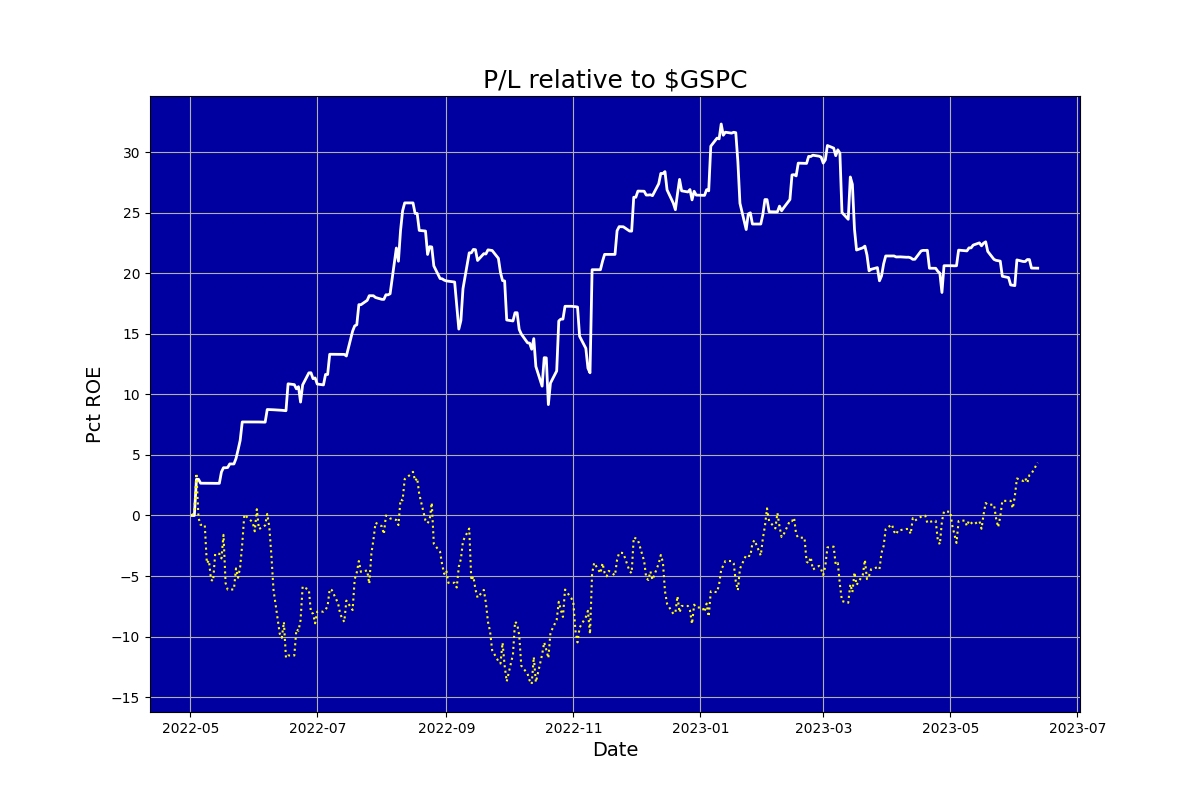
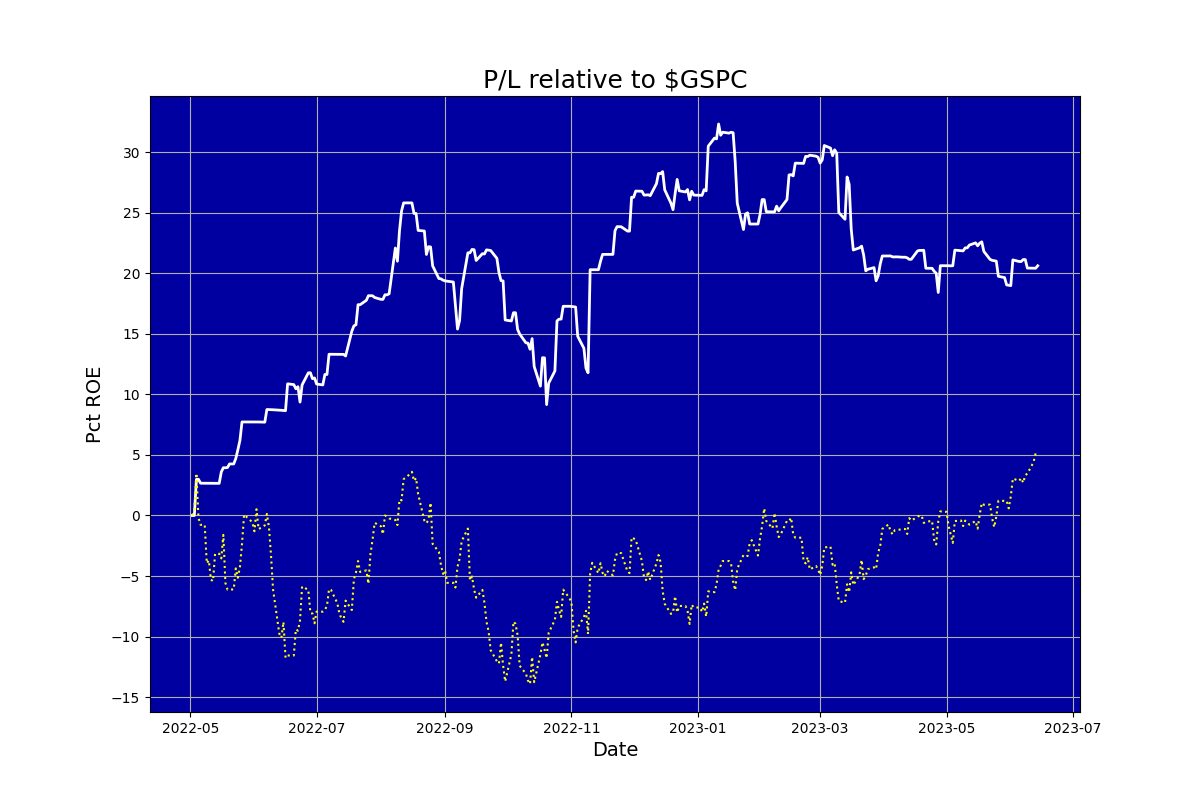
Updated

diff --git a/ig_report.html b/ig_report.html
@@ -1,1 +1,1 @@
-<html><body><center><h1>Auriel (never knowingly overbought)</h1></center><table cols=2><tr><td><img src=ig_pl.png></td><td><table cols=2><tr><td colspan=2><b><br>Snapshot</b></td></tr><tr><td>Last updated:&nbsp;&nbsp;&nbsp;</td><td>2023-06-12 15:54</td></tr><tr><td>Margin:&nbsp;&nbsp;&nbsp;</td><td>0.04</td></tr><tr><td>Cushion:&nbsp;&nbsp;&nbsp;</td><td>-36040.14</td></tr><tr><td>Last closed trade:&nbsp;&nbsp;&nbsp;</td><td>2023-06-12</td></tr><tr><td colspan=2><b><br>Positions</b></td></tr><tr><td>Mean days to new high:&nbsp;&nbsp;&nbsp;</td><td>13.26</td></tr><tr><td colspan=2><b><br>Trades</b></td></tr><tr><td>Traded days:&nbsp;&nbsp;&nbsp;</td><td>293</td></tr><tr><td>Profitable days pct:&nbsp;&nbsp;&nbsp;</td><td>37.20</td></tr><tr><td>Days beat S&P pct:&nbsp;&nbsp;&nbsp;</td><td>53.93</td></tr><tr><td>Profitable months pct:&nbsp;&nbsp;&nbsp;</td><td>64.29</td></tr><tr><td colspan=2><b><br>Performance</b></td></tr><tr><td>Pct median monthly ROE:&nbsp;&nbsp;&nbsp;</td><td>1.27</td></tr><tr><td>Pct annualised ROE:&nbsp;&nbsp;&nbsp;</td><td>17.43</td></tr><tr><td colspan=2><b><br>Risk</b></td></tr><tr><td>Volatility pct:&nbsp;&nbsp;&nbsp;</td><td>18.58</td></tr><tr><td>Benchmark volatility pct:&nbsp;&nbsp;&nbsp;</td><td>21.58</td></tr><tr><td>Sharpe ratio (RFR 5.0%):&nbsp;&nbsp;&nbsp;</td><td>0.76</td></tr><tr><td>Sortino ratio (RFR 5.0%):&nbsp;&nbsp;&nbsp;</td><td>1.06</td></tr><tr><td>Calmar ratio:&nbsp;&nbsp;&nbsp;</td><td>1.05</td></tr><tr><td>Worst drawdown pct:&nbsp;&nbsp;&nbsp;</td><td>-0.17</td></tr><tr><td>Recovery days from worst drawdown:&nbsp;&nbsp;&nbsp;</td><td>29.00</td></tr><tr><td>Beat benchmark +ve periods pct:&nbsp;&nbsp;&nbsp;</td><td>51.62</td></tr><tr><td>Beat benchmark -ve periods pct:&nbsp;&nbsp;&nbsp;</td><td>87.87</td></tr><tr><td>Correlation with benchmark:&nbsp;&nbsp;&nbsp;</td><td>0.35</td></tr></table></td></tr></table></body></html>
+<html><body><center><h1>Auriel (never knowingly overbought)</h1></center><table cols=2><tr><td><img src=ig_pl.png></td><td><table cols=2><tr><td colspan=2><b><br>Snapshot</b></td></tr><tr><td>Last updated:&nbsp;&nbsp;&nbsp;</td><td>2023-06-14 15:54</td></tr><tr><td>Margin:&nbsp;&nbsp;&nbsp;</td><td>0.02</td></tr><tr><td>Cushion:&nbsp;&nbsp;&nbsp;</td><td>-35987.31</td></tr><tr><td>Last closed trade:&nbsp;&nbsp;&nbsp;</td><td>2023-06-14</td></tr><tr><td colspan=2><b><br>Positions</b></td></tr><tr><td>Mean days to new high:&nbsp;&nbsp;&nbsp;</td><td>13.29</td></tr><tr><td colspan=2><b><br>Trades</b></td></tr><tr><td>Traded days:&nbsp;&nbsp;&nbsp;</td><td>295</td></tr><tr><td>Profitable days pct:&nbsp;&nbsp;&nbsp;</td><td>37.29</td></tr><tr><td>Days beat S&P pct:&nbsp;&nbsp;&nbsp;</td><td>54.26</td></tr><tr><td>Profitable months pct:&nbsp;&nbsp;&nbsp;</td><td>64.29</td></tr><tr><td colspan=2><b><br>Performance</b></td></tr><tr><td>Pct median monthly ROE:&nbsp;&nbsp;&nbsp;</td><td>1.28</td></tr><tr><td>Pct annualised ROE:&nbsp;&nbsp;&nbsp;</td><td>17.48</td></tr><tr><td colspan=2><b><br>Risk</b></td></tr><tr><td>Volatility pct:&nbsp;&nbsp;&nbsp;</td><td>18.52</td></tr><tr><td>Benchmark volatility pct:&nbsp;&nbsp;&nbsp;</td><td>21.51</td></tr><tr><td>Sharpe ratio (RFR 5.0%):&nbsp;&nbsp;&nbsp;</td><td>0.76</td></tr><tr><td>Sortino ratio (RFR 5.0%):&nbsp;&nbsp;&nbsp;</td><td>1.07</td></tr><tr><td>Calmar ratio:&nbsp;&nbsp;&nbsp;</td><td>1.05</td></tr><tr><td>Worst drawdown pct:&nbsp;&nbsp;&nbsp;</td><td>-0.17</td></tr><tr><td>Recovery days from worst drawdown:&nbsp;&nbsp;&nbsp;</td><td>29.00</td></tr><tr><td>Beat benchmark +ve periods pct:&nbsp;&nbsp;&nbsp;</td><td>50.76</td></tr><tr><td>Beat benchmark -ve periods pct:&nbsp;&nbsp;&nbsp;</td><td>87.87</td></tr><tr><td>Correlation with benchmark:&nbsp;&nbsp;&nbsp;</td><td>0.35</td></tr></table></td></tr></table></body></html>
